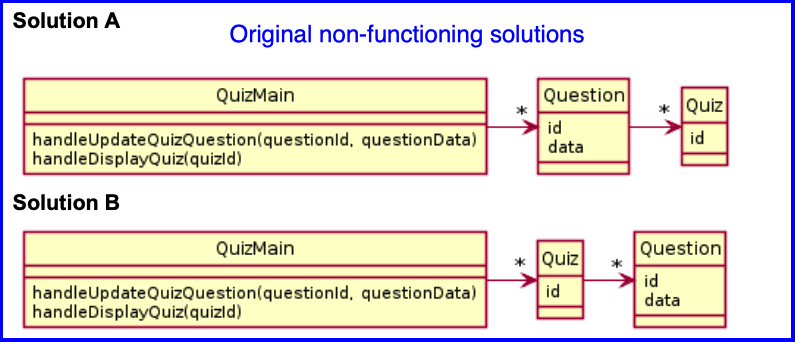
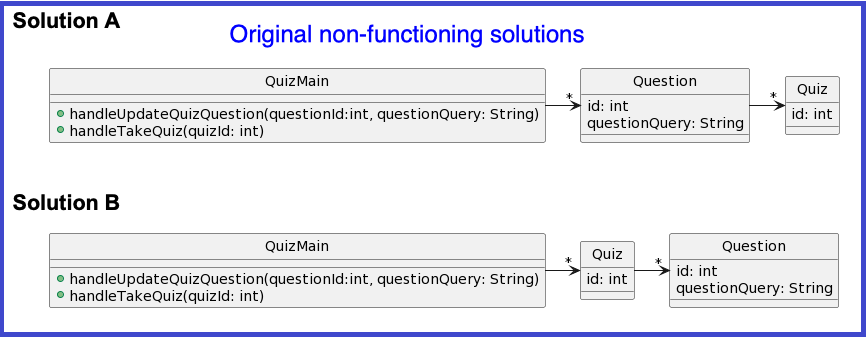
updating ID1 to match DP1

diff --git a/Homework/HWImplementingDesign1/README.md b/Homework/HWImplementingDesign1/README.md
@@ -5,8 +5,8 @@
 - This is an individual exercise/assignment
 
 ## The problem:
-
-Online quizzer: Is an online quiz application for teachers who write quizzes and students who take them.  The same quiz question can appear in multiple quizzes.  If a teacher updates a quiz question, it is important that all quizzes immediately reflect that change.
+Online Quizzes:
+In an online quiz application, teachers update quizzes and students take them.  Quizzes and questions have their own unique id number. The same quiz question can appear in multiple different quizzes.  If a teacher updates the actual query made by a quiz's question, it's important that this update to the query is reflected in all quizzes that utilize that question. A student takes a quiz by providing a quizId to the app at the time of taking the quiz.
 
 ## To do:
 
@@ -21,10 +21,10 @@ Online quizzer: Is an online quiz application for teachers who write quizzes and
 <br>(1) *.java* files, (2) your UML diagram, (3) your answers in *reflectionQuestions.txt*, and (4) any additional *.java* files that you may have created to solve this problem
 
 *Additional Instructions*: 
-- Each question should have both an *idNumber* and *data*
-- The question's *data* should be stored as a Java String and contain the actual question to be asked. For example, "What is the capital of Egypt?"
-- Each quiz should have an *idNumber* along with its data
-- When displaying a quiz, the quiz's *idNumber* should be displayed in addition to each question's *idNumber* and *data*
+- Each question should have both an *id* and *questionQuery*
+- The question's *questionQuery* should be stored as a Java String and contain the actual question to be asked. For example, "What is the capital of Egypt?"
+- Each quiz should have an *id* along with its *questionQuery*
+- When displaying a quiz, the quiz's *id* should be displayed in addition to each question's *id* and *questionQuery*
 
 ## Rubric:
 
